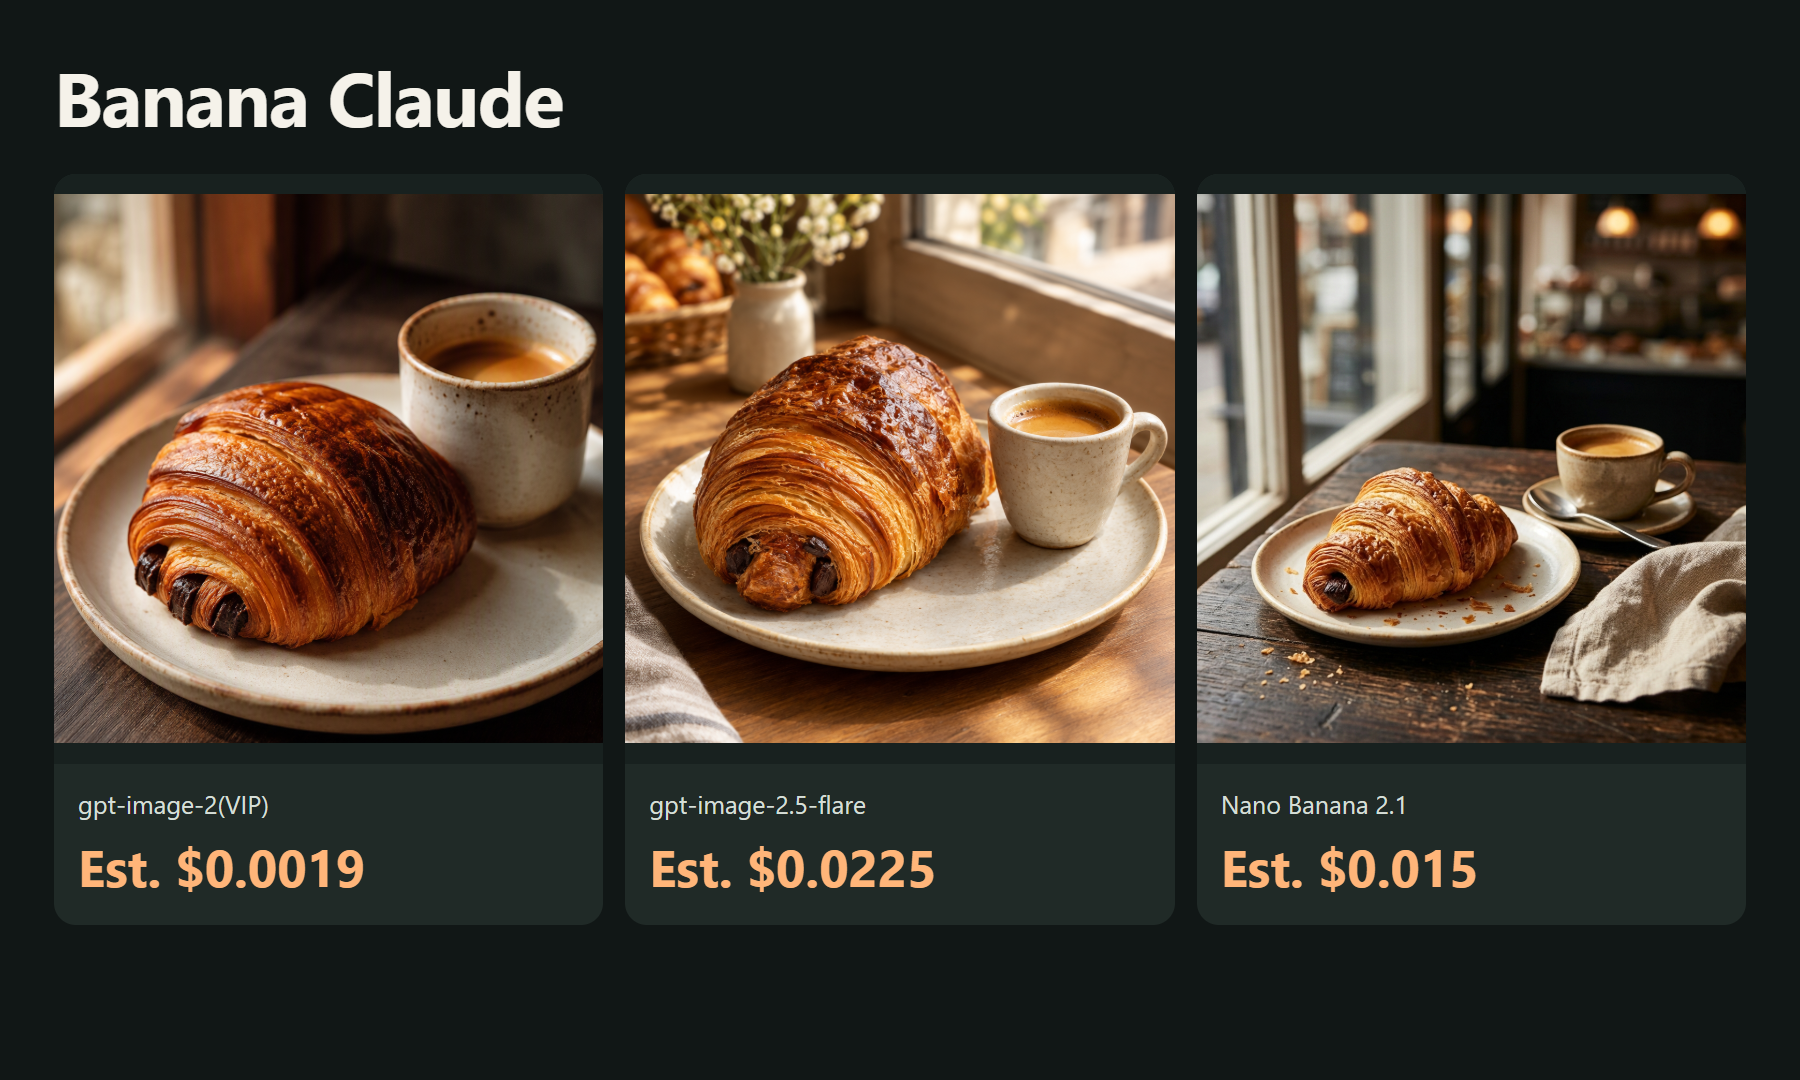
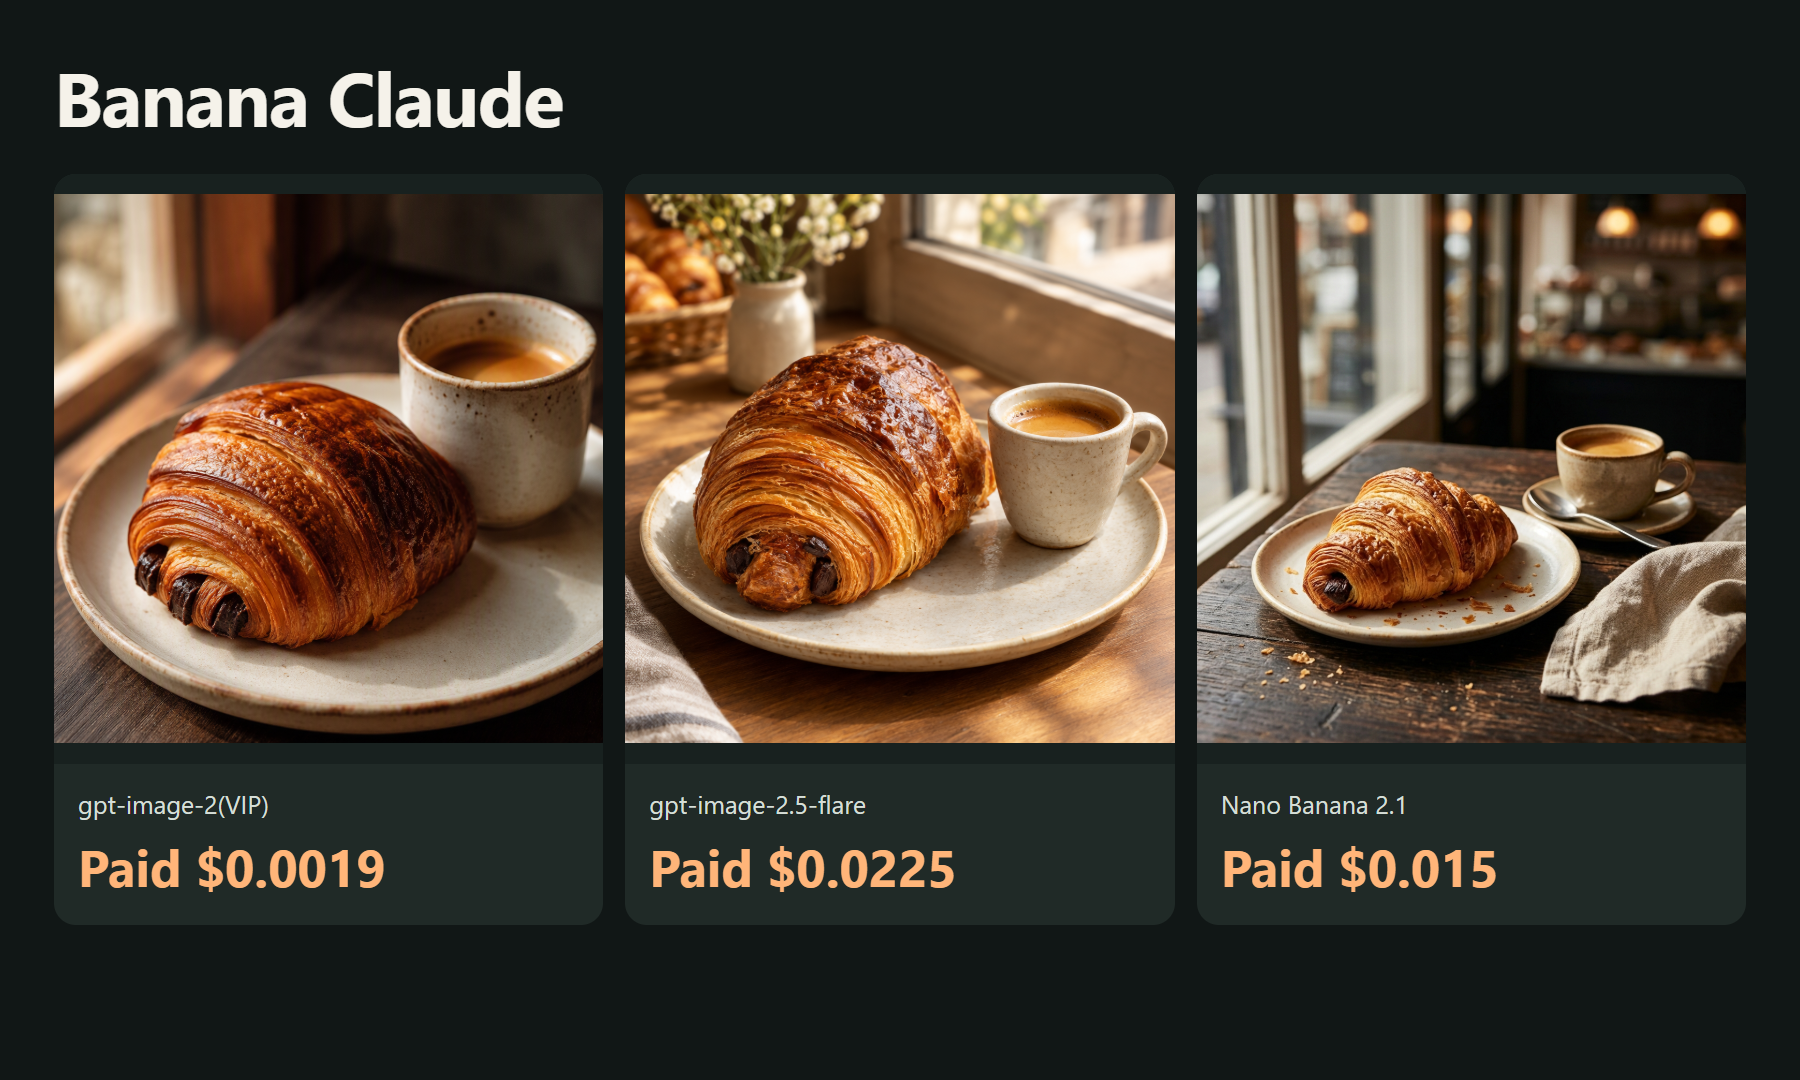
Publish original bilingual ToAPIs media examples, model pricing and real outputs

Changed region(s): [[0.0311, 0.7639, 0.2178, 0.825], [0.6844, 0.7639, 0.84, 0.825], [0.3733, 0.7639, 0.5289, 0.825]]

diff --git a/screenshots/cn/01-image-cases.html b/screenshots/cn/01-image-cases.html
@@ -1,1 +1,1 @@
-<!doctype html><html lang="zh-CN"><meta charset="utf-8"><title>Banana Claude</title><style>*{box-sizing:border-box}html,body{margin:0;width:1800px;height:1080px;overflow:hidden}body{background:#111716;color:#f5f2ea;font-family:"Segoe UI","Microsoft YaHei",sans-serif}.page{padding:54px 54px 40px}h1{font-size:76px;line-height:1.1;margin:0 0 36px;font-weight:650;letter-spacing:-1.5px}.grid{display:grid;gap:22px}.case{background:#202a27;border-radius:22px;overflow:hidden}.case img{display:block;width:100%;height:590px;object-fit:contain;background:#18211f}.caption{padding:24px 24px 28px}.model{font-size:25px;line-height:1.3;color:#d5dfd7;white-space:nowrap}.price{font-size:51px;line-height:1.2;color:#ffb579;font-weight:650;margin-top:16px}.video .case img{height:610px}.video .model{font-size:30px}.video .price{font-size:50px}</style><main class="page "><h1>Banana Claude</h1><div class="grid" style="grid-template-columns:repeat(3,1fr)"><section class="case"><img src="../../examples/gpt-image-2-vip.png"><div class="caption"><div class="model">gpt-image-2(VIP)</div><div class="price">预计 $0.0019</div></div></section><section class="case"><img src="../../examples/gpt-image-2-5-flare.png"><div class="caption"><div class="model">gpt-image-2.5-flare</div><div class="price">预计 $0.0225</div></div></section><section class="case"><img src="../../examples/gemini-nano-banana-2-1.png"><div class="caption"><div class="model">Nano Banana 2.1</div><div class="price">预计 $0.015</div></div></section></div></main></html>
+<!doctype html><html lang="zh-CN"><meta charset="utf-8"><title>Banana Claude</title><style>*{box-sizing:border-box}html,body{margin:0;width:1800px;height:1080px;overflow:hidden}body{background:#111716;color:#f5f2ea;font-family:"Segoe UI","Microsoft YaHei",sans-serif}.page{padding:54px 54px 40px}h1{font-size:76px;line-height:1.1;margin:0 0 36px;font-weight:650;letter-spacing:-1.5px}.grid{display:grid;gap:22px}.case{background:#202a27;border-radius:22px;overflow:hidden}.case img{display:block;width:100%;height:590px;object-fit:contain;background:#18211f}.caption{padding:24px 24px 28px}.model{font-size:25px;line-height:1.3;color:#d5dfd7;white-space:nowrap}.price{font-size:51px;line-height:1.2;color:#ffb579;font-weight:650;margin-top:16px}.video .case img{height:610px}.video .model{font-size:30px}.video .price{font-size:50px}</style><main class="page "><h1>Banana Claude</h1><div class="grid" style="grid-template-columns:repeat(3,1fr)"><section class="case"><img src="../../examples/gpt-image-2-vip.png"><div class="caption"><div class="model">gpt-image-2(VIP)</div><div class="price">实扣 $0.0019</div></div></section><section class="case"><img src="../../examples/gpt-image-2-5-flare.png"><div class="caption"><div class="model">gpt-image-2.5-flare</div><div class="price">实扣 $0.0225</div></div></section><section class="case"><img src="../../examples/gemini-nano-banana-2-1.png"><div class="caption"><div class="model">Nano Banana 2.1</div><div class="price">实扣 $0.015</div></div></section></div></main></html>

diff --git a/screenshots/en/01-image-cases.html b/screenshots/en/01-image-cases.html
@@ -1,1 +1,1 @@
-<!doctype html><html lang="en"><meta charset="utf-8"><title>Banana Claude</title><style>*{box-sizing:border-box}html,body{margin:0;width:1800px;height:1080px;overflow:hidden}body{background:#111716;color:#f5f2ea;font-family:"Segoe UI","Microsoft YaHei",sans-serif}.page{padding:54px 54px 40px}h1{font-size:76px;line-height:1.1;margin:0 0 36px;font-weight:650;letter-spacing:-1.5px}.grid{display:grid;gap:22px}.case{background:#202a27;border-radius:22px;overflow:hidden}.case img{display:block;width:100%;height:590px;object-fit:contain;background:#18211f}.caption{padding:24px 24px 28px}.model{font-size:25px;line-height:1.3;color:#d5dfd7;white-space:nowrap}.price{font-size:51px;line-height:1.2;color:#ffb579;font-weight:650;margin-top:16px}.video .case img{height:610px}.video .model{font-size:30px}.video .price{font-size:50px}</style><main class="page "><h1>Banana Claude</h1><div class="grid" style="grid-template-columns:repeat(3,1fr)"><section class="case"><img src="../../examples/gpt-image-2-vip.png"><div class="caption"><div class="model">gpt-image-2(VIP)</div><div class="price">Est. $0.0019</div></div></section><section class="case"><img src="../../examples/gpt-image-2-5-flare.png"><div class="caption"><div class="model">gpt-image-2.5-flare</div><div class="price">Est. $0.0225</div></div></section><section class="case"><img src="../../examples/gemini-nano-banana-2-1.png"><div class="caption"><div class="model">Nano Banana 2.1</div><div class="price">Est. $0.015</div></div></section></div></main></html>
+<!doctype html><html lang="en"><meta charset="utf-8"><title>Banana Claude</title><style>*{box-sizing:border-box}html,body{margin:0;width:1800px;height:1080px;overflow:hidden}body{background:#111716;color:#f5f2ea;font-family:"Segoe UI","Microsoft YaHei",sans-serif}.page{padding:54px 54px 40px}h1{font-size:76px;line-height:1.1;margin:0 0 36px;font-weight:650;letter-spacing:-1.5px}.grid{display:grid;gap:22px}.case{background:#202a27;border-radius:22px;overflow:hidden}.case img{display:block;width:100%;height:590px;object-fit:contain;background:#18211f}.caption{padding:24px 24px 28px}.model{font-size:25px;line-height:1.3;color:#d5dfd7;white-space:nowrap}.price{font-size:51px;line-height:1.2;color:#ffb579;font-weight:650;margin-top:16px}.video .case img{height:610px}.video .model{font-size:30px}.video .price{font-size:50px}</style><main class="page "><h1>Banana Claude</h1><div class="grid" style="grid-template-columns:repeat(3,1fr)"><section class="case"><img src="../../examples/gpt-image-2-vip.png"><div class="caption"><div class="model">gpt-image-2(VIP)</div><div class="price">Paid $0.0019</div></div></section><section class="case"><img src="../../examples/gpt-image-2-5-flare.png"><div class="caption"><div class="model">gpt-image-2.5-flare</div><div class="price">Paid $0.0225</div></div></section><section class="case"><img src="../../examples/gemini-nano-banana-2-1.png"><div class="caption"><div class="model">Nano Banana 2.1</div><div class="price">Paid $0.015</div></div></section></div></main></html>

diff --git a/README.md b/README.md
@@ -4,7 +4,7 @@
 
 Prepare image assets for Claude workflows.
 
-October 16, 2026: 3 real images. Catalog estimate for these completed assets: **$0.0394**; settled charges pending.
+October 16, 2026: 3 real images. Confirmed charge for these completed assets: **$0.0394 (7.88 credits)**, reconciled by task ID against the owner-provided dashboard export.
 
 [ToAPIs · model pricing and setup](https://go2v.toapis.com/bc16ge)
 
@@ -16,11 +16,11 @@ October 16, 2026: 3 real images. Catalog estimate for these completed assets: **
 
 | Model | Preset | Catalog estimate / output | Settled charge |
 |---|---|---:|---|
-| gpt-image-2(VIP) | low / 1K | $0.0019 | pending |
-| gpt-image-2.5-flare | high / 1K | $0.0225 | pending |
-| Nano Banana 2.1 | 1K | $0.015 | pending |
+| gpt-image-2(VIP) | low / 1K | $0.0019 | $0.0019 |
+| gpt-image-2.5-flare | high / 1K | $0.0225 | $0.0225 |
+| Nano Banana 2.1 | 1K | $0.015 | $0.015 |
 
-These are catalog estimates for the specified presets, not confirmed settled charges. Different models/presets do not imply equal quality. See evidence and examples for task records and originals.
+Catalog rates and confirmed charges match for these tested presets. Charges were reconciled against the owner-provided dashboard export at USD 0.005 per credit. Different models/presets do not imply equal quality. See evidence and examples for task records and originals.
 
 ## Run it
 

diff --git a/README_zh-CN.md b/README_zh-CN.md
@@ -4,7 +4,7 @@
 
 在Claude创作流程里准备图片。
 
-2026-10-16：3张真实图片；本批成功素材按价表估算 **$0.0394**，实际扣费待后台核对。
+2026-10-16：3张真实图片；本批成功素材实扣 **$0.0394（7.88积分）**，已按后台导出逐任务核对。
 
 [ToAPIs · 对应模型价格与接入](https://go2v.toapis.com/bc16gc)
 
@@ -16,11 +16,11 @@
 
 | Model | Preset | Catalog estimate / output | Settled charge |
 |---|---|---:|---|
-| gpt-image-2(VIP) | low / 1K | $0.0019 | 待核对 |
-| gpt-image-2.5-flare | high / 1K | $0.0225 | 待核对 |
-| Nano Banana 2.1 | 1K | $0.015 | 待核对 |
+| gpt-image-2(VIP) | low / 1K | $0.0019 | $0.0019 |
+| gpt-image-2.5-flare | high / 1K | $0.0225 | $0.0225 |
+| Nano Banana 2.1 | 1K | $0.015 | $0.015 |
 
-以上是本次明确配置的费率估算，不是已结算金额；不同模型/画质不表示同等质量。每项任务、请求和原始文件见evidence与examples。
+对应配置的价表与本次实扣一致；实扣来自后台导出，1积分=$0.005。不同模型/画质不表示同等质量。逐任务记录和原始文件见evidence与examples。
 
 ## 怎么运行
 
